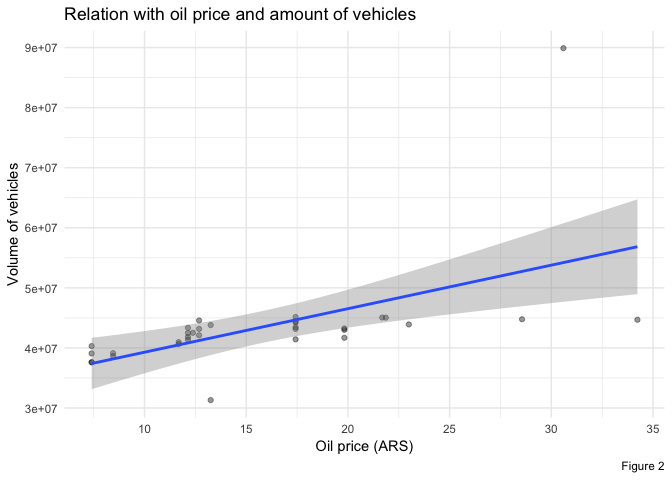
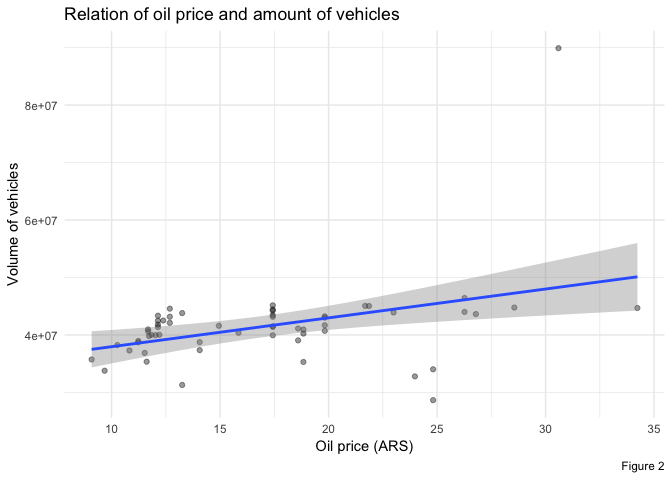
Correlation between oil prices and vehicle volume differences.

diff --git a/time-estimation/README.md b/time-estimation/README.md
@@ -18,6 +18,10 @@ The oil prices dataset consists of monthly prices of different types of oil: sup
 
 ![](README_files/figure-markdown_github/pricethroughtime-1.png)
 
-Building on top of the previous analysis of traffic patterns performed [here](https://github.com/tulians/traffic/blob/master/descriptive/README.md), it would be intersting to analyze whether there was a correlation between the rate at which the number of vehicles passing through toll booths [started to grow month-over-month](https://github.com/tulians/traffic/blob/master/descriptive/README_files/figure-markdown_github/trend-1.png), and the month-over-month increase in oil prices depicted in Figure 1. For this we compute differences of both time series and illustrate their relation. As seen in Figure 2, there is barely a linear relation between these two differences, which is represented by the Pearson correlation coefficient of 0.5510687. This correlation, even though it's not strong, it's positive, which implies that an increase in oil prices does not necessarily result in a decrease in traffic volume.
+Building on top of the previous analysis of traffic patterns performed [here](https://github.com/tulians/traffic/blob/master/descriptive/README.md), it would be intersting to analyze whether there was a correlation between the rate at which the number of vehicles passing through toll booths [started to grow month-over-month](https://github.com/tulians/traffic/blob/master/descriptive/README_files/figure-markdown_github/trend-1.png), and the month-over-month (M-o-M) increase in oil prices depicted in Figure 1. As seen in Figure 2 (condidering only information from January 2014 onwards, after the [unexpected growth](https://github.com/tulians/traffic/tree/master/descriptive#increment-in-traffic)) there is barely a linear relation between these two differences, which is represented by the Pearson correlation coefficient of 0.3871544. This correlation, even though it's not strong, it's positive, which implies that an increase in oil prices does not necessarily result in a decrease in traffic volume, but rather the opposite in this case.
 
 ![](README_files/figure-markdown_github/correlationgraph-1.png)
+
+A more interesting approach in the search for a relation between vehicle volume and oil price would be to look at the M-o-M differences of each time series. Figure 3 shows the behavior through time of the difference of each of the variables, which was computed over the normalized series. Again, computing the correlation between both differences yields a positive number, 0.0757591, which shows non-conclusive evidence that an increase in oil price could impact the volume of vehicles passing through toll booths (at least not in a month by month basis).
+
+![](README_files/figure-markdown_github/differencesgraph-1.png)
